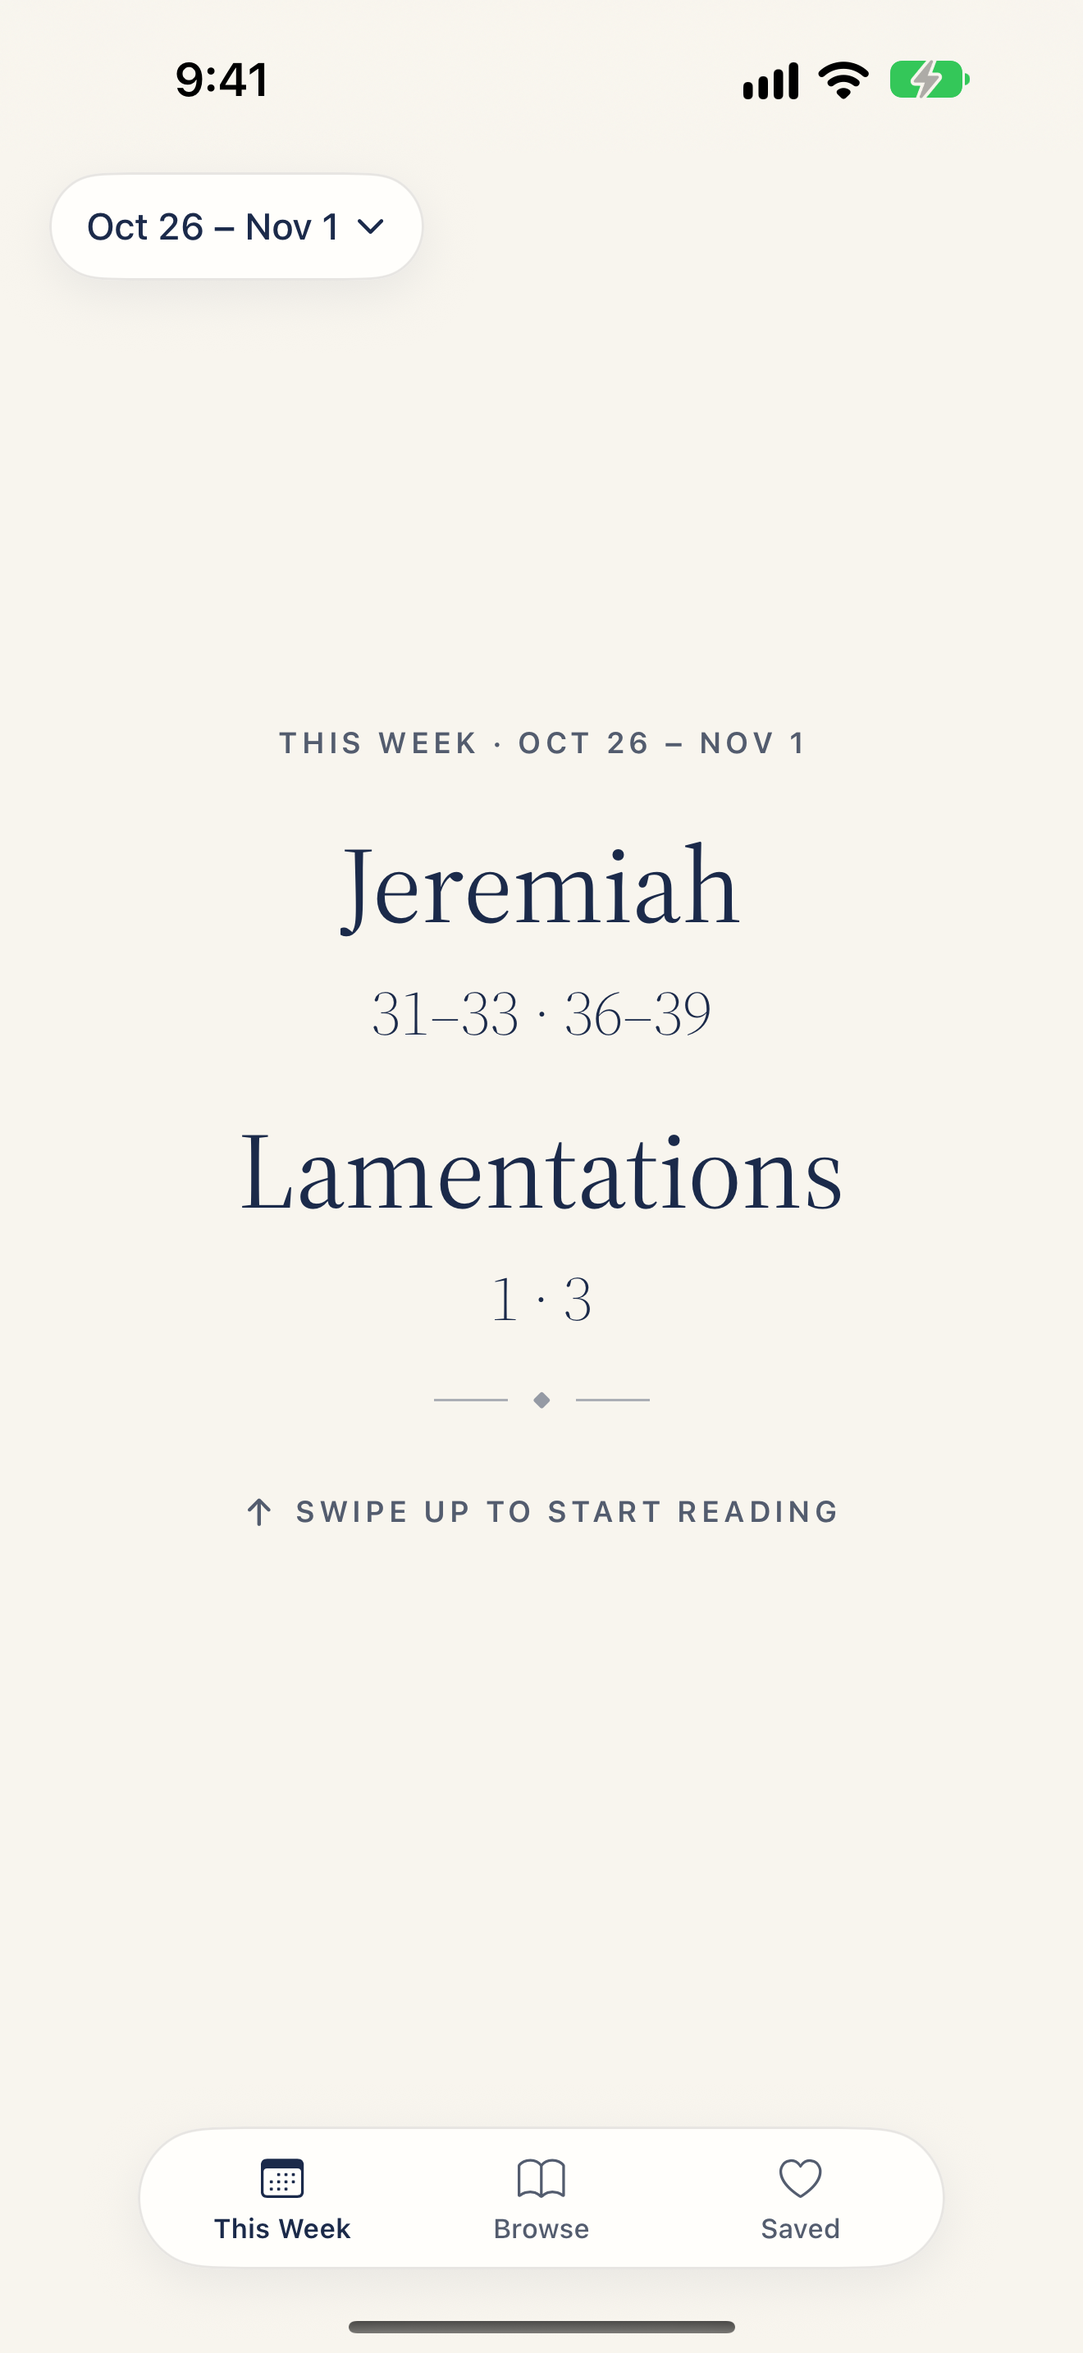
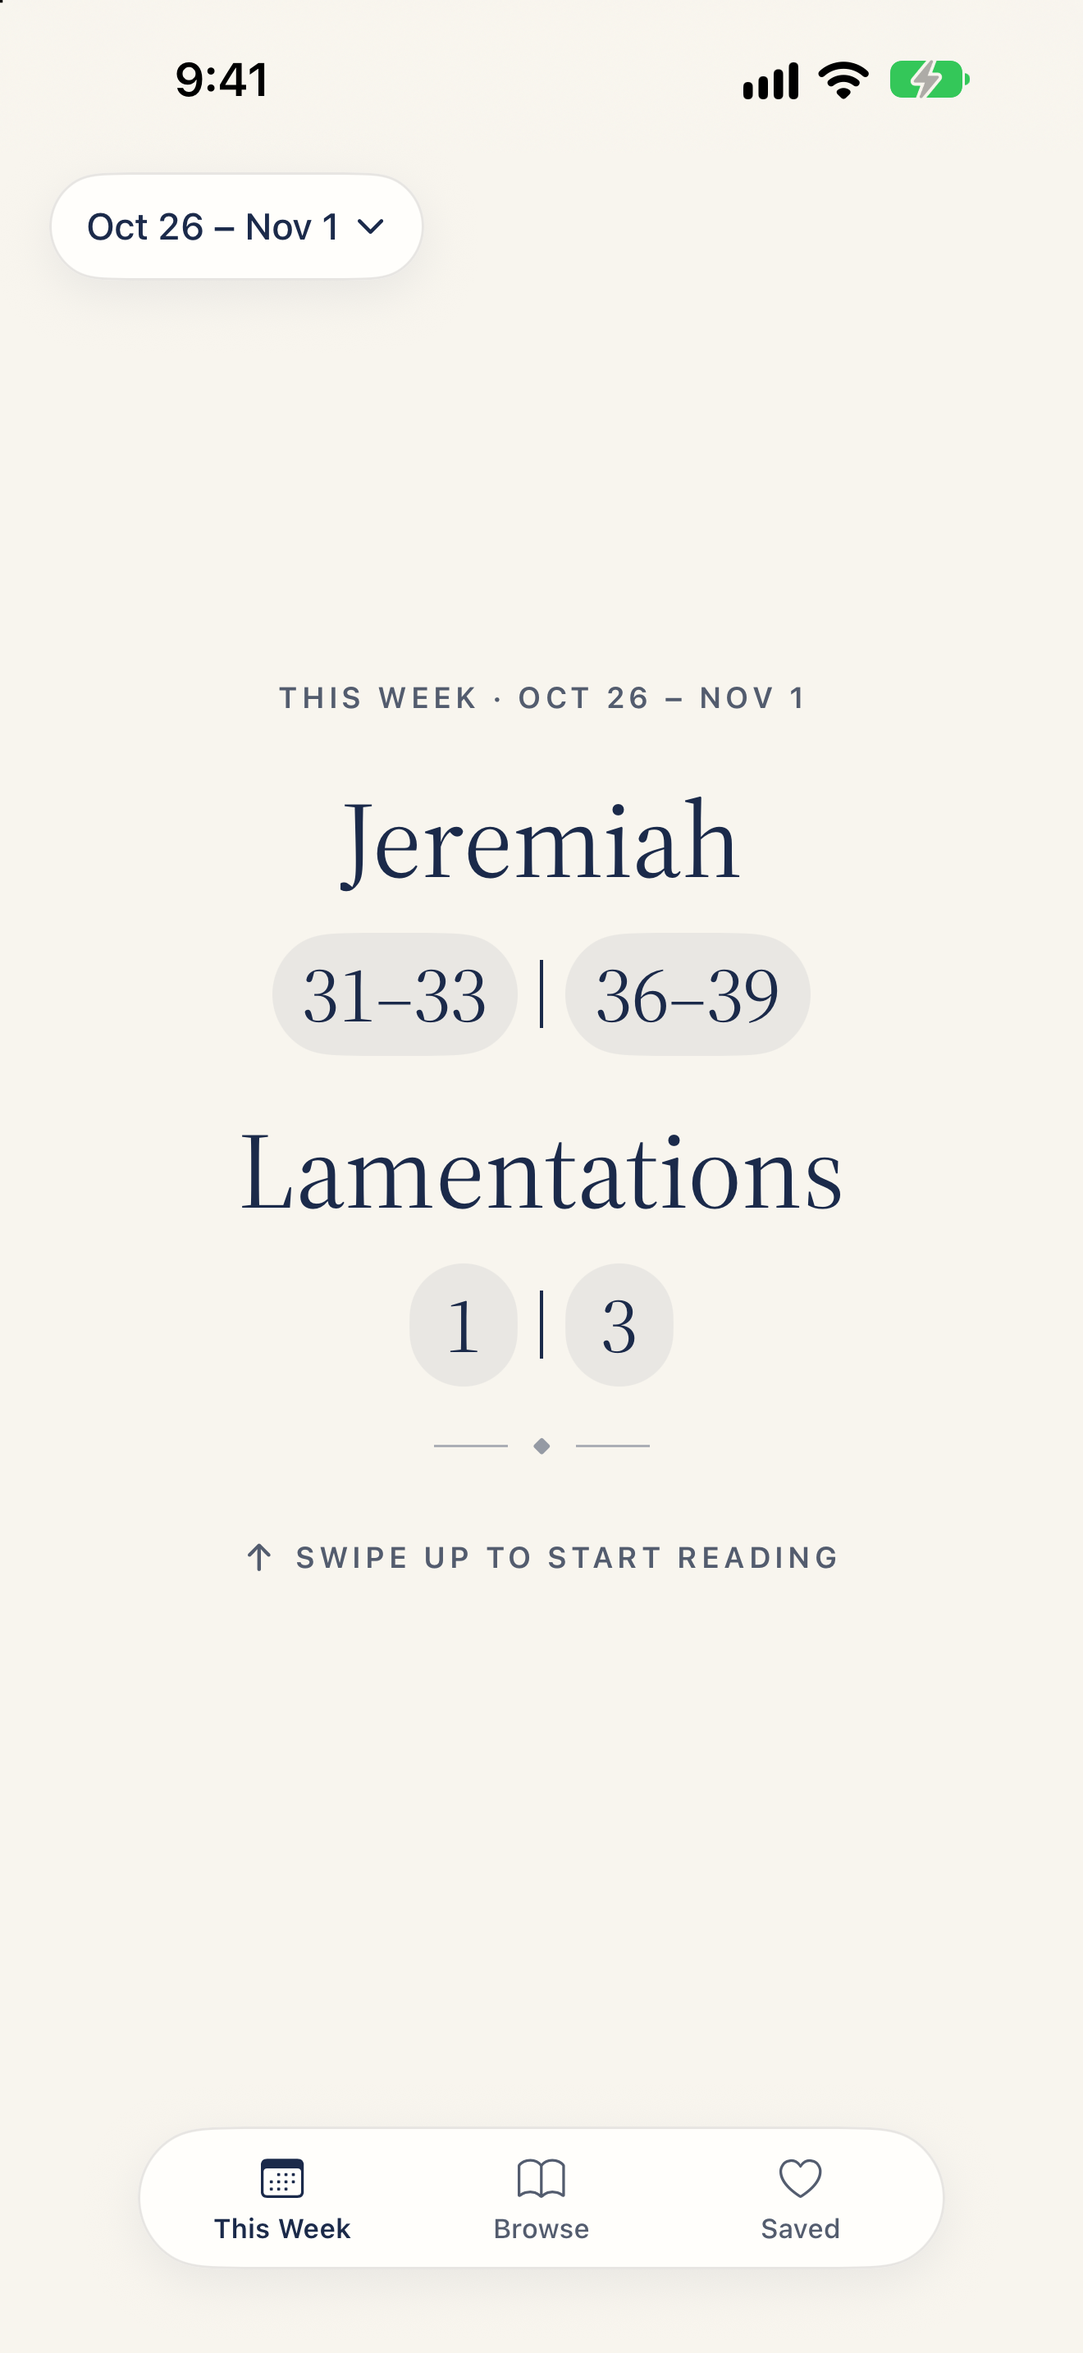
Make the week card's chapter sections tappable pills
Each section is now a larger, heavier soft tinted pill that jumps to where
that section starts, with a thin vertical line between sections. Rows wrap
evenly, so no section is left alone on a line.

diff --git a/Versed/Features/Feed/WeekIntroCard.swift b/Versed/Features/Feed/WeekIntroCard.swift
@@ -1,11 +1,13 @@
 import SwiftUI
 
 /// The first page of a week's reading: a small label with the dates, each book with its
-/// chapters, and a line saying to swipe up. The link to the week's lesson waits on `WeekEndCard`.
+/// tappable chapter sections, and a line saying to swipe up. The link to the week's lesson waits on `WeekEndCard`.
 struct WeekIntroCard: View {
     let week: ReadingWeek
     /// Whether the reader is partway through the week, so swiping up continues rather than starts.
     var isResuming = false
+    /// Called when the reader taps a chapter section, with the chapter it starts on.
+    var onSelectSection: (ChapterID) -> Void = { _ in }
 
     private var isThisWeek: Bool {
         week.contains(VersedApp.today)
@@ -30,15 +32,13 @@ struct WeekIntroCard: View {
     var body: some View {
         ShrinkToFit {
             VStack(spacing: 20) {
-                VStack(spacing: 20) {
-                    SmallCapsLabel(label)
-                    reading
-                }
-                // VoiceOver reads "This Week, Daniel 1–7, Nov 9–15" as one heading
-                // ("Week Of, …" for other weeks), in normal case rather than capitals.
-                .accessibilityElement(children: .ignore)
-                .accessibilityLabel("\(isThisWeek ? "This Week" : "Week Of"), \(week.label), \(week.dateRangeText())")
-                .accessibilityAddTraits(.isHeader)
+                SmallCapsLabel(label)
+                    // VoiceOver reads "This Week, Daniel 1–7, Nov 9–15" as one heading
+                    // ("Week Of, …" for other weeks), in normal case rather than capitals.
+                    .accessibilityElement(children: .ignore)
+                    .accessibilityLabel("\(isThisWeek ? "This Week" : "Week Of"), \(week.label), \(week.dateRangeText())")
+                    .accessibilityAddTraits(.isHeader)
+                reading
 
                 HStack(spacing: 8) {
                     Image(systemName: "arrow.up")
@@ -69,15 +69,15 @@ struct WeekIntroCard: View {
             title(books[0].name)
             if !books[0].chapters.isEmpty {
                 Ornament()
-                chapters(books[0].chapters)
+                sections(of: 0)
             }
         } else {
             VStack(spacing: 16) {
-                ForEach(Array(books.enumerated()), id: \.offset) { _, book in
-                    VStack(spacing: 4) {
+                ForEach(Array(books.enumerated()), id: \.offset) { index, book in
+                    VStack(spacing: 8) {
                         title(book.name)
                         if !book.chapters.isEmpty {
-                            chapters(book.chapters)
+                            sections(of: index)
                         }
                     }
                 }
@@ -90,15 +90,112 @@ struct WeekIntroCard: View {
         Text(name)
             .font(.versedTitle(size: titleSize))
             .foregroundStyle(.brand)
+            // VoiceOver already reads each book in the heading and its sections.
+            .accessibilityHidden(true)
     }
 
-    /// "1–3 · 33–34 · 36–37 · 47". The no-break space keeps each dot on the same line as the
-    /// chapters before it, so a line never starts with one.
-    private func chapters(_ sections: [String]) -> some View {
-        Text(sections.joined(separator: "\u{00A0}· "))
-            .font(.versedNumber(size: 26, relativeTo: .title2))
-            .lineSpacing(4)
-            .foregroundStyle(.brand)
+    /// The book's chapter sections as soft pills, each jumping to where that section starts.
+    private func sections(of index: Int) -> some View {
+        SectionRows {
+            ForEach(Array(week.sectionsByBook[index].enumerated()), id: \.offset) { position, section in
+                if position > 0 {
+                    Rectangle()
+                        .fill(Color.brand)
+                        .accessibilityHidden(true)
+                }
+                Button(section.title) {
+                    onSelectSection(section.start)
+                }
+                .buttonStyle(.tintedPill)
+                .font(.versedTitle(size: 32, relativeTo: .title2))
+                .accessibilityLabel("\(books[index].name) \(section.title.replacingOccurrences(of: "\u{2060}", with: ""))")
+                .accessibilityHint("Jumps to this reading.")
+            }
+        }
+    }
+}
+
+/// Lays out a book's section pills and the thin vertical lines between them, which take turns as
+/// subviews: pill, line, pill. Rows are centered and wrap when they run out of room, and a line
+/// that would land at a row's edge is hidden, so lines only ever sit between two pills.
+private struct SectionRows: Layout {
+    private static let lineWidth: CGFloat = 1.5
+    private static let gap: CGFloat = 9
+    private static let rowSpacing: CGFloat = 10
+
+    private struct Row {
+        var pills: [Int] = []
+        var width: CGFloat = 0
+        var height: CGFloat = 0
+    }
+
+    /// Fills rows up to `width`, then narrows it for as long as that takes no extra rows, so
+    /// wrapped rows come out even ("1–3 | 33–34" over "36–37 | 47") with no pill left alone.
+    private func rows(fitting width: CGFloat, in subviews: Subviews) -> [Row] {
+        var best = filledRows(fitting: width, in: subviews)
+        while best.count > 1 {
+            let widest = best.map(\.width).max() ?? 0
+            let narrower = filledRows(fitting: widest - 1, in: subviews)
+            // Stop when it needs another row, or can't get any narrower (one pill per row).
+            guard narrower.count == best.count, (narrower.map(\.width).max() ?? 0) < widest else { break }
+            best = narrower
+        }
+        return best
+    }
+
+    private func filledRows(fitting width: CGFloat, in subviews: Subviews) -> [Row] {
+        let separation = Self.lineWidth + Self.gap * 2
+        var rows: [Row] = []
+        for index in stride(from: 0, to: subviews.count, by: 2) {
+            let size = subviews[index].sizeThatFits(.unspecified)
+            if let last = rows.last, last.width + separation + size.width <= width {
+                rows[rows.count - 1].pills.append(index)
+                rows[rows.count - 1].width += separation + size.width
+                rows[rows.count - 1].height = max(last.height, size.height)
+            } else {
+                rows.append(Row(pills: [index], width: size.width, height: size.height))
+            }
+        }
+        return rows
+    }
+
+    func sizeThatFits(proposal: ProposedViewSize, subviews: Subviews, cache: inout ()) -> CGSize {
+        let rows = rows(fitting: proposal.width ?? .infinity, in: subviews)
+        return CGSize(
+            width: rows.map(\.width).max() ?? 0,
+            height: rows.map(\.height).reduce(0, +) + Self.rowSpacing * CGFloat(max(rows.count - 1, 0))
+        )
+    }
+
+    func placeSubviews(in bounds: CGRect, proposal: ProposedViewSize, subviews: Subviews, cache: inout ()) {
+        // Every line starts hidden; the ones between two pills are placed again below.
+        for index in stride(from: 1, to: subviews.count, by: 2) {
+            subviews[index].place(at: bounds.origin, proposal: .zero)
+        }
+
+        var y = bounds.minY
+        for row in rows(fitting: bounds.width, in: subviews) {
+            var x = bounds.midX - row.width / 2
+            for pill in row.pills {
+                if pill != row.pills[0] {
+                    x += Self.gap
+                    subviews[pill - 1].place(
+                        at: CGPoint(x: x, y: y + row.height / 2),
+                        anchor: .leading,
+                        proposal: ProposedViewSize(width: Self.lineWidth, height: row.height * 0.55)
+                    )
+                    x += Self.lineWidth + Self.gap
+                }
+                let size = subviews[pill].sizeThatFits(.unspecified)
+                subviews[pill].place(
+                    at: CGPoint(x: x, y: y + row.height / 2),
+                    anchor: .leading,
+                    proposal: ProposedViewSize(size)
+                )
+                x += size.width
+            }
+            y += row.height + Self.rowSpacing
+        }
     }
 }
 

diff --git a/Versed/Features/Feed/FeedView.swift b/Versed/Features/Feed/FeedView.swift
@@ -42,7 +42,7 @@ struct FeedView: View {
         ScrollView(.vertical) {
             LazyVStack(spacing: 0) {
                 ForEach(items) { item in
-                    page(for: item, savedIDs: savedIDs)
+                    page(for: item, savedIDs: savedIDs, onSelectSection: jump(to:))
                         .containerRelativeFrame([.horizontal, .vertical])
                 }
             }
@@ -69,6 +69,13 @@ struct FeedView: View {
         }
     }
 
+    /// Goes straight to a chapter's first page, without scrolling through the pages in between.
+    private func jump(to chapter: ChapterID) {
+        if let item = items.first(where: { FeedItem.chapterID(of: $0.id) == chapter }) {
+            currentItemID = item.id
+        }
+    }
+
     /// Swiping to a verse counts toward today's reading; just opening the feed doesn't.
     private func recordReading(on itemID: FeedItem.ID) {
         if FeedItem.verseID(of: itemID) != nil {
@@ -83,7 +90,10 @@ struct FeedView: View {
         GeometryReader { geometry in
             let height = geometry.size.height
             let dismissDistance = min(height / 3, 250)
-            page(for: item, savedIDs: [], isResuming: true)
+            page(for: item, savedIDs: [], isResuming: true) { chapter in
+                jump(to: chapter)
+                dismissCover(height: height)
+            }
                 .frame(maxWidth: .infinity, maxHeight: .infinity)
                 .background(Color.appBackground)
                 .contentShape(Rectangle())
@@ -129,11 +139,12 @@ struct FeedView: View {
     private func page(
         for item: FeedItem,
         savedIDs: Set<String>,
-        isResuming: Bool = false
+        isResuming: Bool = false,
+        onSelectSection: @escaping (ChapterID) -> Void
     ) -> some View {
         switch item {
         case .weekIntro(let week):
-            WeekIntroCard(week: week, isResuming: isResuming)
+            WeekIntroCard(week: week, isResuming: isResuming, onSelectSection: onSelectSection)
         case .weekEnd(let week):
             WeekEndCard(week: week)
         case .chapterTitle(let title):

diff --git a/VersedUITests/VersedUITests.swift b/VersedUITests/VersedUITests.swift
@@ -166,6 +166,32 @@ final class VersedUITests: XCTestCase {
         XCTAssertTrue(app.staticTexts["Jeremiah 31:2"].waitForExistence(timeout: 5))
     }
 
+    func testTappingASectionJumpsToIt() {
+        XCTAssertTrue(app.staticTexts["Swipe up to start reading"].waitForExistence(timeout: 10))
+        app.buttons["Lamentations 3"].tap()
+        XCTAssertTrue(app.descendants(matching: .any)["Lamentations, Chapter 3"].waitForExistence(timeout: 5))
+
+        // Swiping up from there keeps reading that chapter.
+        app.swipeUp()
+        XCTAssertTrue(app.staticTexts["Lamentations 3:1"].waitForExistence(timeout: 5))
+    }
+
+    func testTappingASectionWorksWhenResuming() {
+        XCTAssertTrue(app.staticTexts["Swipe up to start reading"].waitForExistence(timeout: 10))
+        for _ in 1...4 { app.swipeUp() }
+        XCTAssertTrue(app.staticTexts["Jeremiah 31:3"].waitForExistence(timeout: 5))
+        app.openWeekFromSchedule("Nov 9–15, Daniel 1–7")
+        XCTAssertTrue(weekHeading(containing: "Daniel 1–7").waitForExistence(timeout: 5))
+        app.tab("Browse").tap()
+        app.navigationBars.buttons.firstMatch.tap()
+        app.scrollViews.buttons["This Week"].tap()
+        XCTAssertTrue(app.staticTexts["Swipe up to continue reading"].waitForExistence(timeout: 5))
+
+        app.buttons["Jeremiah 36–39"].tap()
+        XCTAssertTrue(app.descendants(matching: .any)["Jeremiah, Chapter 36"].waitForExistence(timeout: 5))
+        XCTAssertFalse(app.staticTexts["Swipe up to continue reading"].exists)
+    }
+
     func testFinishedWeekStartsOverFromTheFirstVerse() {
         app.openWeekFromSchedule(XCUIApplication.shortWeek.row)
         XCTAssertTrue(weekHeading(containing: "John 1").waitForExistence(timeout: 5))

diff --git a/Versed/Models/ReadingWeek.swift b/Versed/Models/ReadingWeek.swift
@@ -61,6 +61,23 @@ struct ReadingWeek: Identifiable, Hashable, Sendable {
         }
     }
 
+    /// The chapter sections of `readingByBook`, one list per book, each with the chapter it starts
+    /// on so the opening card can jump there. Matched to `passages` in order, because a number
+    /// alone can repeat: "Matthew 1; Luke 1". Books read whole have an empty list.
+    var sectionsByBook: [[ReadingSection]] {
+        var remaining = passages[...]
+        return readingByBook.map { book in
+            book.chapters.compactMap { title in
+                guard let firstChapter = Int(title.prefix(while: \.isNumber)),
+                      let index = remaining.firstIndex(where: { $0.chapters.lowerBound == firstChapter })
+                else { return nil }
+                let passage = remaining[index]
+                remaining = remaining[remaining.index(after: index)...]
+                return ReadingSection(title: title, start: ChapterID(bookID: passage.bookID, chapter: firstChapter))
+            }
+        }
+    }
+
     func contains(_ date: Date) -> Bool {
         start <= date && date < end
     }
@@ -84,4 +101,10 @@ struct BookReading: Hashable, Sendable {
     let name: String
     /// Chapters or chapter ranges, such as "1–3" and "47". Empty when the book is read whole.
     let chapters: [String]
+}
+
+/// One tappable part of a week's reading, such as "33–34" in Ezekiel.
+struct ReadingSection: Hashable, Sendable {
+    let title: String
+    let start: ChapterID
 }

diff --git a/VersedTests/ReadingScheduleTests.swift b/VersedTests/ReadingScheduleTests.swift
@@ -131,6 +131,23 @@ struct ReadingScheduleTests {
         }
     }
 
+    /// Every section on a week's opening card has to jump to the right book and chapter.
+    @Test func everySectionStartsOnARealPageOfItsBook() throws {
+        let library = try ScriptureLibrary.loadBundled()
+        for week in schedule.weeks {
+            let pages = library.feedItems(for: week.passages).map { FeedItem.chapterID(of: $0.id) }
+            for (book, sections) in zip(week.readingByBook, week.sectionsByBook) {
+                #expect(sections.map(\.title) == book.chapters, "\(week.label)")
+                for section in sections {
+                    #expect(library.book(id: section.start.bookID)?.name == book.name.replacingOccurrences(of: "\u{2060}", with: ""), "\(week.label)")
+                    #expect(pages.contains(section.start), "\(week.label): \(section.title)")
+                }
+            }
+        }
+        let week = try #require(schedule.weeks.first { $0.label == "Matthew 1; Luke 1" })
+        #expect(week.sectionsByBook.flatMap { $0 }.map(\.start.bookID) == ["matt", "luke"])
+    }
+
         @Test func groupsWeeksByCourse() {
         #expect(schedule.weeks.first { $0.id == "2026-12-21" }?.course == "Old Testament 2026")
         // The New Testament year starts the Monday after Christmas 2026.

diff --git a/Versed/Features/Shared/AppColors.swift b/Versed/Features/Shared/AppColors.swift
@@ -283,8 +283,26 @@ struct SecondaryButtonStyle: ButtonStyle {
     }
 }
 
+/// The quietest button: a flat, faint navy pill, for tappable things that sit in the page's text.
+/// It deepens while pressed. Set the font where it's used.
+struct TintedPillButtonStyle: ButtonStyle {
+    func makeBody(configuration: Configuration) -> some View {
+        configuration.label
+            .foregroundStyle(.brand)
+            .padding(.horizontal, 12)
+            .padding(.vertical, 3)
+            .frame(minWidth: 44, minHeight: 44)
+            .background(Color.brand.opacity(configuration.isPressed ? 0.16 : 0.07), in: Capsule())
+            .contentShape(Capsule())
+    }
+}
+
 extension ButtonStyle where Self == PrimaryButtonStyle {
     static var primary: PrimaryButtonStyle { PrimaryButtonStyle() }
+}
+
+extension ButtonStyle where Self == TintedPillButtonStyle {
+    static var tintedPill: TintedPillButtonStyle { TintedPillButtonStyle() }
 }
 
 extension ButtonStyle where Self == SecondaryButtonStyle {

diff --git a/CLAUDE.md b/CLAUDE.md
@@ -72,8 +72,8 @@ App Store release (in progress; 16–19 done). Peyton's Apple Developer account 
 - Three bundled fonts, free under the Open Font License (licenses in `Versed/Resources/Fonts`, listed in `Versed/App/Info.plist`): EB Garamond for verses, Source Serif 4 Display for titles and for numbers (its numbers are all one even height), and the iPhone's own font for buttons, labels, and lists.
 - Colors: warm paper page with soft white cards in light mode, deep navy with lighter navy cards in dark mode.
 - Screens use the iPhone's standard back button and navigation titles, so swipe-to-go-back keeps working.
-- This Week shows the date in its small label. When a week has several books they sit close together as one group, with no line between them, so they don't look like separate weeks. Settings is opened from the gear on Browse.
-- All colors, fonts, and shared pieces live in `Versed/Features/Shared/AppColors.swift` (`.brand`, `.appBackground`, `.cardBackground`, `.secondaryText`, `.hairline`, `.cardShadow`, `.versedTitle`, `.versedNumber`, `.versedVerse`, `.raised(in:)`, `Card`, `CardSection`, `CardRowLabel`, `SmallCapsLabel`, `Ornament`, `.primary`/`.secondary`/`.cardRow` button styles). The tab bar is `FloatingTabBar.swift`. New screens use these. Don't add new colors or one-off styles; if something's missing, add it there.
+- This Week shows the date in its small label. When a week has several books they sit close together as one group, with no line between them, so they don't look like separate weeks. Each chapter section is a soft tinted pill that jumps to where it starts, with a thin vertical line between sections. Settings is opened from the gear on Browse.
+- All colors, fonts, and shared pieces live in `Versed/Features/Shared/AppColors.swift` (`.brand`, `.appBackground`, `.cardBackground`, `.secondaryText`, `.hairline`, `.cardShadow`, `.versedTitle`, `.versedNumber`, `.versedVerse`, `.raised(in:)`, `Card`, `CardSection`, `CardRowLabel`, `SmallCapsLabel`, `Ornament`, `.primary`/`.secondary`/`.tintedPill`/`.cardRow` button styles). The tab bar is `FloatingTabBar.swift`. New screens use these. Don't add new colors or one-off styles; if something's missing, add it there.
 
 ## Testing
 - After a change, only run the tests related to it, then save to GitHub.
